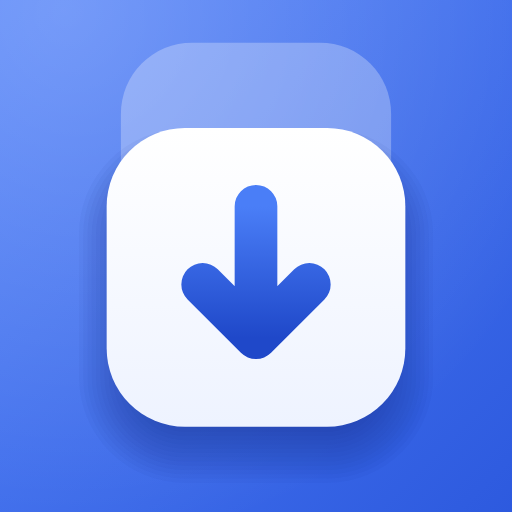
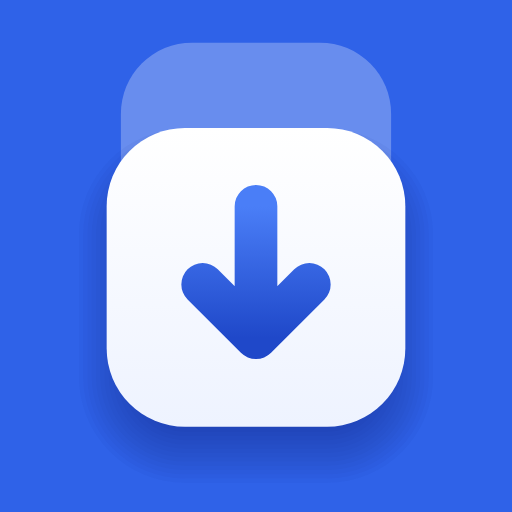
아이콘 바탕과 온보딩 첫 화면 배경을 다시 단색(#2F62E8)으로 칠하기
- ic_launcher_background drawable을 지우고 @color/ic_launcher_background로 되돌린다
- 온보딩 물결 배경의 그라데이션 칠하기를 걷어낸다
- 생성 스크립트도 단색 바탕을 쓰고, Play 스토어 아이콘을 다시 그린다

Claude-Session: https://claude.ai/code/session_01AwdWyMQJxzGowmNtC8iMCC

diff --git a/tools/generate_launcher_icon.py b/tools/generate_launcher_icon.py
@@ -3,10 +3,9 @@
 
 Every place the icon appears is drawn from the shapes below, so proportions and
 colors stay identical everywhere:
-  - app/src/main/res/drawable/ic_launcher_background.xml  (gradient backdrop)
   - app/src/main/res/drawable/ic_launcher_foreground.xml  (ghost key, shadow, key, arrow)
   - app/src/main/res/drawable/ic_launcher_monochrome.xml  (themed icon layer)
-  - app/src/main/res/values/colors.xml                    (gradient colors used by the onboarding halo)
+  - app/src/main/res/values/colors.xml                    (ic_launcher_background: icon backdrop, also the onboarding halo)
   - docs/play-store/icon-512.png                          (--png)
   - docs/play-store/feature-graphic@3x.png, feature-graphic.png (--png; the key is redrawn in place)
 
@@ -40,8 +39,7 @@ SHAFT = [(54, 47), (54, 65)]
 CHEVRON = [(46.5, 58), (54, 65.5), (61.5, 58)]
 STROKE = 6
 
-BG_START, BG_END = "#5A8BFF", "#2450D8"   # top-left → bottom-right
-HIGHLIGHT = (0.25, 0.18, 0.70, 0.22)      # radial white glow: centre x, y, radius (fractions of size), alpha
+BACKGROUND_COLOR = "#2F62E8"              # flat backdrop
 KEY_TOP, KEY_BOTTOM = "#FFFFFF", "#EEF3FF"
 ARROW_TOP, ARROW_BOTTOM = "#4A7EF7", "#1F48C9"
 GHOST_ALPHA = 0.28
@@ -84,11 +82,7 @@ def shadow_layers():
         yield dict(d=key(x - g, y + dy - g, w + 2 * g, h + 2 * g, max(1, r + g)), fill=(color, a))
 
 
-BACKGROUND = [
-    dict(d="M0,0h108v108h-108z", grad=("linear", (0, 0, 108, 108), [(0, BG_START, 1), (1, BG_END, 1)])),
-    dict(d="M0,0h108v108h-108z", grad=("radial", (HIGHLIGHT[0] * 108, HIGHLIGHT[1] * 108, HIGHLIGHT[2] * 108),
-                                       [(0, "#FFFFFF", HIGHLIGHT[3]), (1, "#FFFFFF", 0)])),
-]
+BACKGROUND = [dict(d="M0,0h108v108h-108z", fill=(BACKGROUND_COLOR, 1))]   # for the PNG/SVG only
 FOREGROUND = [
     dict(d=key(*GHOST), fill=("#FFFFFF", GHOST_ALPHA)),
     *shadow_layers(),
@@ -155,8 +149,6 @@ def write(path, text):
 
 def write_resources():
     d = os.path.join(RES, "drawable")
-    write(os.path.join(d, "ic_launcher_background.xml"),
-          vector(BACKGROUND, "앱 아이콘 바탕: 왼쪽 위가 밝은 파란 그라데이션."))
     write(os.path.join(d, "ic_launcher_foreground.xml"),
           vector(FOREGROUND, "밀려 내려간 키: 원래 자리의 반투명 잔상과 아래로 밀려 내려온 키로 스와이프(아래로 밀기)를 나타낸다."))
     write(os.path.join(d, "ic_launcher_monochrome.xml"),
@@ -164,10 +156,10 @@ def write_resources():
     colors = os.path.join(RES, "values", "colors.xml")
     with open(colors, encoding="utf-8") as fp:
         text = fp.read()
-    for name, value in (("ic_launcher_gradient_start", BG_START), ("ic_launcher_gradient_end", BG_END)):
-        text, n = re.subn(rf'(<color name="{name}">)#[0-9A-Fa-f]+(</color>)', rf"\g<1>{value}\g<2>", text)
-        if n != 1:
-            raise SystemExit(f"colors.xml: <color name=\"{name}\"> not found")
+    text, n = re.subn(r'(<color name="ic_launcher_background">)#[0-9A-Fa-f]+(</color>)',
+                      rf"\g<1>{BACKGROUND_COLOR}\g<2>", text)
+    if n != 1:
+        raise SystemExit('colors.xml: <color name="ic_launcher_background"> not found')
     write(colors, text)
 
 # ---------------------------------------------------------------- SVG / PNG
@@ -267,7 +259,7 @@ def main():
     ap.add_argument("--svg", metavar="DIR", help="also write SVG previews into DIR")
     args = ap.parse_args()
     write_resources()
-    print("wrote drawable/ic_launcher_{background,foreground,monochrome}.xml, values/colors.xml")
+    print("wrote drawable/ic_launcher_{foreground,monochrome}.xml, values/colors.xml")
     if args.svg:
         os.makedirs(args.svg, exist_ok=True)
         for name, (layers, view) in SVGS.items():

diff --git a/app/src/main/java/com/alternative_studios/newswipe/ui/OnboardingArt.java b/app/src/main/java/com/alternative_studios/newswipe/ui/OnboardingArt.java
@@ -5,13 +5,9 @@ import android.animation.ValueAnimator;
 import android.content.Context;
 import android.graphics.Canvas;
 import android.graphics.Color;
-import android.graphics.LinearGradient;
-import android.graphics.Matrix;
 import android.graphics.Paint;
 import android.graphics.Path;
-import android.graphics.RadialGradient;
 import android.graphics.RectF;
-import android.graphics.Shader;
 import android.view.View;
 import android.view.animation.LinearInterpolator;
 import android.view.animation.PathInterpolator;
@@ -107,11 +103,6 @@ public final class OnboardingArt {
     public static final class ShapeBadge extends Looping {
         private final Paint fill = new Paint(Paint.ANTI_ALIAS_FLAG);
         private final Paint check = new Paint(Paint.ANTI_ALIAS_FLAG);
-        /** 그라데이션을 쓸 때 위에 얹는 왼쪽 위의 은은한 빛. */
-        private Paint glow;
-        private final Matrix shaderMatrix = new Matrix();
-        private int gradientStart, gradientEnd;
-        private boolean gradient;
         private final Path shape = new Path();
         private final Path checkPath = new Path();
         private final int lobes;
@@ -134,19 +125,6 @@ public final class OnboardingArt {
             check.setStrokeJoin(Paint.Join.ROUND);
         }
 
-        /**
-         * 단색 대신 앱 아이콘 바탕과 같은 그라데이션(왼쪽 위 → 오른쪽 아래, 왼쪽 위의 빛)으로 칠한다.
-         * 모양이 돌아도 빛의 방향은 화면에 고정된다. 빛의 위치와 세기는 tools/generate_launcher_icon.py의 HIGHLIGHT와 같다.
-         */
-        public void setGradient(int start, int end) {
-            gradient = true;
-            gradientStart = start;
-            gradientEnd = end;
-            glow = new Paint(Paint.ANTI_ALIAS_FLAG);
-            lastSize = -1f;
-            invalidate();
-        }
-
         /** 가운데에 체크 표시를 그린다. */
         public void setCheck(int color) {
             showCheck = true;
@@ -166,21 +144,12 @@ public final class OnboardingArt {
             if (size != lastSize) {
                 lastSize = size;
                 buildShape(size / 2f);
-                if (gradient) buildShaders(size / 2f);
             }
             canvas.save();
             canvas.translate(w / 2f, h / 2f);
             canvas.save();
-            float angle = phase * 360f;
-            canvas.rotate(angle);
-            if (gradient) {
-                // 모양과 함께 돌린 캔버스를 셰이더에서 되돌려, 빛이 늘 왼쪽 위에서 오게 한다.
-                shaderMatrix.setRotate(-angle);
-                fill.getShader().setLocalMatrix(shaderMatrix);
-                glow.getShader().setLocalMatrix(shaderMatrix);
-            }
+            canvas.rotate(phase * 360f);
             canvas.drawPath(shape, fill);
-            if (gradient) canvas.drawPath(shape, glow);
             canvas.restore();
             if (showCheck && checkProgress > 0f) {
                 float r = size / 2f;
@@ -200,13 +169,6 @@ public final class OnboardingArt {
                 canvas.drawPath(checkPath, check);
             }
             canvas.restore();
-        }
-
-        private void buildShaders(float r) {
-            fill.setShader(new LinearGradient(-r, -r, r, r, gradientStart, gradientEnd, Shader.TileMode.CLAMP));
-            float d = 2f * r;
-            glow.setShader(new RadialGradient(-r + 0.25f * d, -r + 0.18f * d, 0.70f * d,
-                    Color.argb(56, 255, 255, 255), Color.argb(0, 255, 255, 255), Shader.TileMode.CLAMP));
         }
 
         private void buildShape(float radius) {

diff --git a/app/src/main/java/com/alternative_studios/newswipe/OnboardingActivity.java b/app/src/main/java/com/alternative_studios/newswipe/OnboardingActivity.java
@@ -203,12 +203,11 @@ public final class OnboardingActivity extends Activity {
 
         root.addView(new View(this), new LinearLayout.LayoutParams(1, 0, 1f));
 
-        // 아이콘 바탕과 같은 그라데이션의 물결 모양(Material 3 Expressive 모양)이 천천히 돌고, 그 위에 아이콘의 앞면(잔상, 키, 화살표)만 얹는다.
+        // 아이콘 바탕색의 물결 모양(Material 3 Expressive 모양)이 천천히 돌고, 그 위에 아이콘의 앞면(잔상, 키, 화살표)만 얹는다.
         // 물결 모양 자체가 아이콘의 바탕이 되어, 아이콘 모양과 물결이 따로 보이지 않는다.
         FrameLayout hero = new FrameLayout(this);
         OnboardingArt.ShapeBadge halo = new OnboardingArt.ShapeBadge(this,
-                getColor(R.color.ic_launcher_gradient_end), 9, 0.07f);
-        halo.setGradient(getColor(R.color.ic_launcher_gradient_start), getColor(R.color.ic_launcher_gradient_end));
+                getColor(R.color.ic_launcher_background), 9, 0.07f);
         int haloSize = Ui.dp(this, 216);
         hero.addView(halo, new FrameLayout.LayoutParams(haloSize, haloSize, Gravity.CENTER));
         ImageView icon = new ImageView(this);
